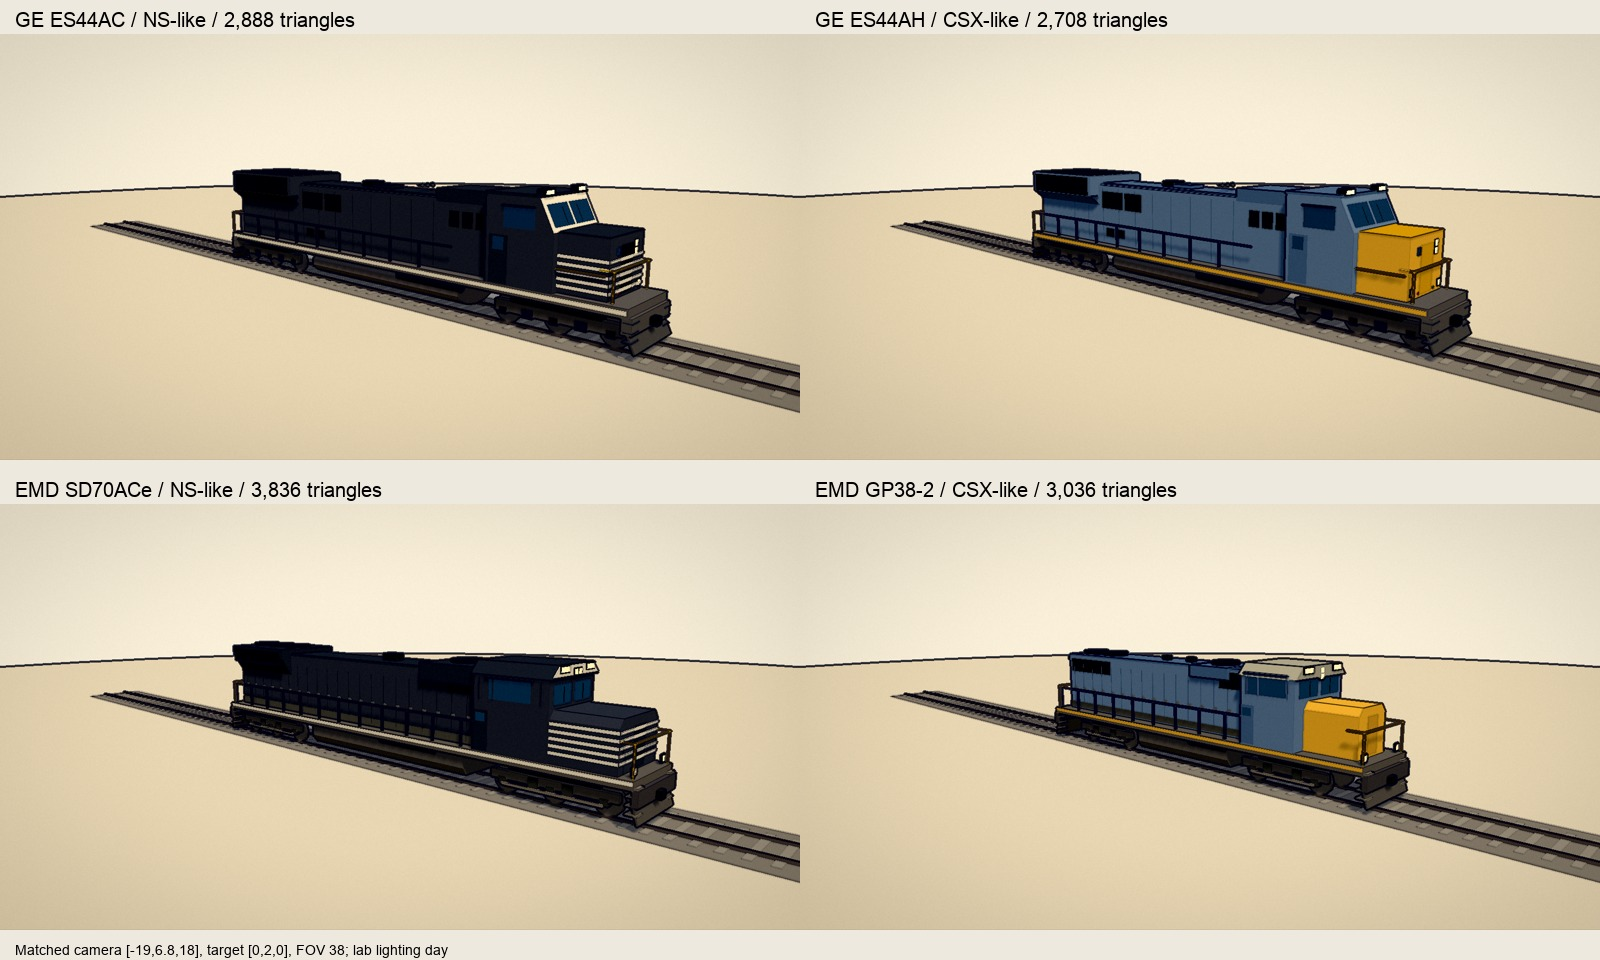
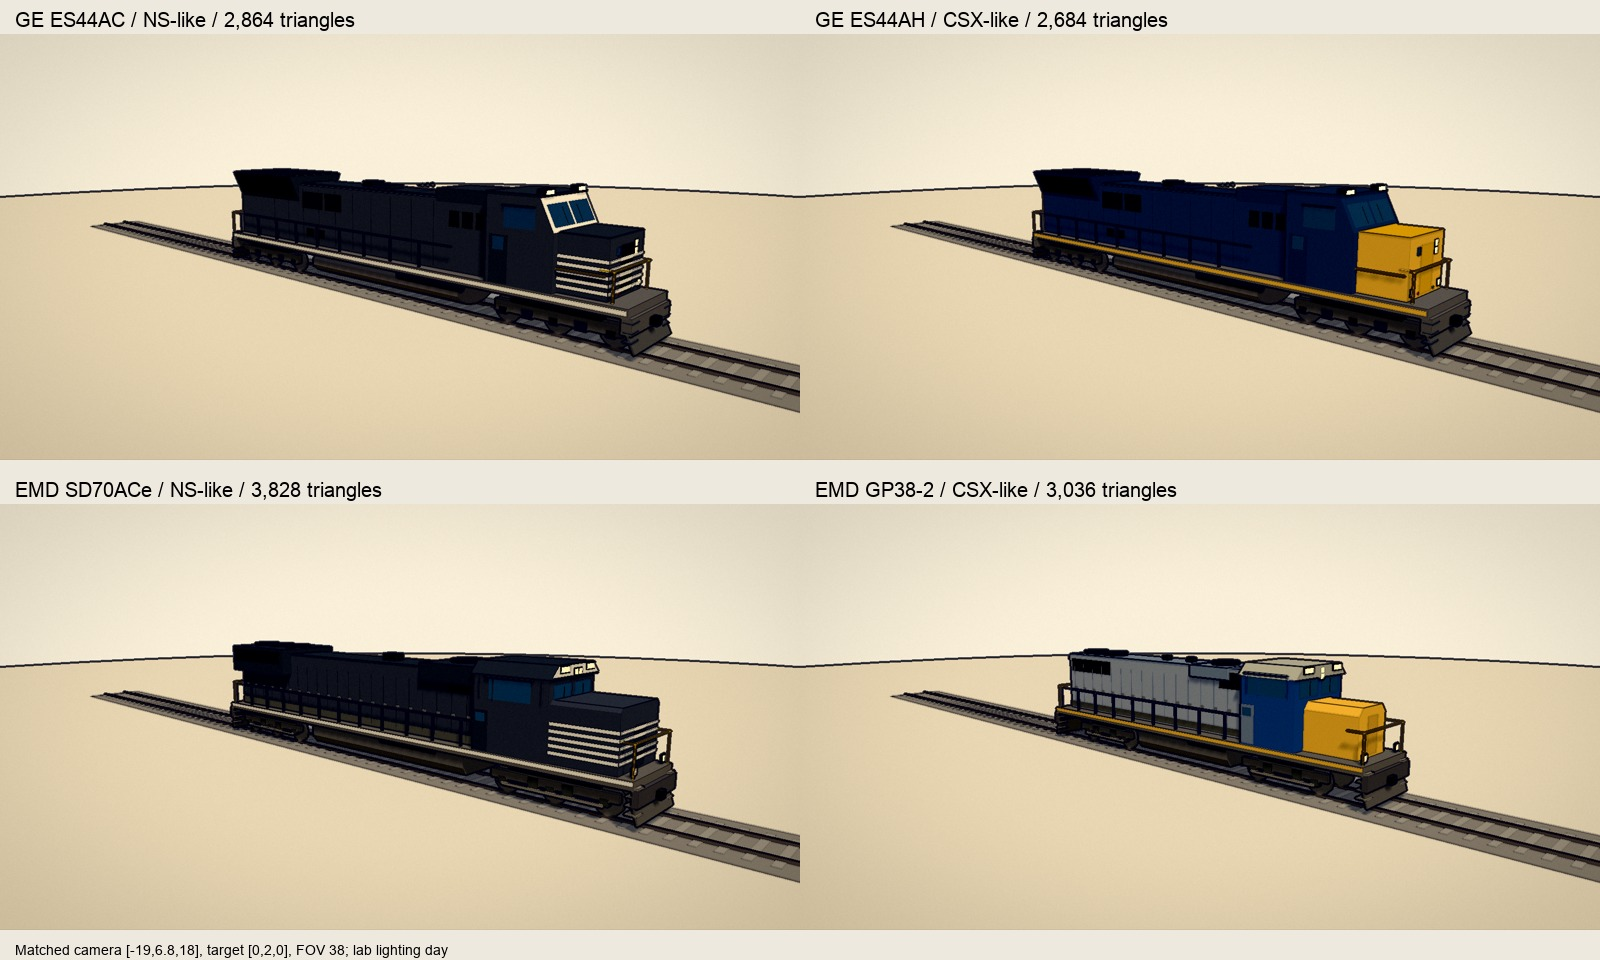
Deepen CSX paint and distinguish GE and EMD silhouettes

diff --git a/web/src/vignette/emd-loco.ts b/web/src/vignette/emd-loco.ts
@@ -30,7 +30,8 @@ function cylinder(b: Builder, radius: number, height: number, x: number, y: numb
 
 export function emdLocomotive(b: Builder, lamps: Builder, model: EmdModel, frontLit: boolean, rearLit: boolean) {
   const small = model === 'gp382', d = EMD_DIMENSIONS[model], end = d.length / 2 - .35;
-  const body = small ? '#76889a' : '#4d4e50', shade = small ? '#647688' : '#3f4143';
+  const body = small ? '#969b9e' : '#4d4e50', shade = small ? '#7c858b' : '#3f4143';
+  const cabPaint = small ? '#344f70' : body;
   const accent = small ? '#ddb15e' : '#e4e1d6';
   const cabFront = small ? 5.9 : 8.0, cabBack = small ? 3.5 : 5.0;
   const nose = end - .6, hoodEnd = -end + .55, roof = small ? 4.46 : 4.65;
@@ -68,20 +69,20 @@ export function emdLocomotive(b: Builder, lamps: Builder, model: EmdModel, front
 
   // The SD's broad clipped-corner safety nose versus the GP's narrow low short hood.
   const nw = small ? .91 : 1.43;
-  section(b, [[-nw,1.52],[nw,1.52],[nw,3.0],[nw-.24,3.28],[-nw+.24,3.28],[-nw,3.0]], cabFront, nose, small ? accent : body);
+  section(b, [[-nw,1.52],[nw,1.52],[nw,small?3.0:3.48],[nw-(small?.24:.12),small?3.28:3.62],[-nw+(small?.24:.12),small?3.28:3.62],[-nw,small?3.0:3.48]], cabFront, nose, small ? accent : body);
   b.box(small ? .65 : .8, 1.35, .025, 0, 2.28, nose + .018, small ? '#c19a52' : shade);
   if (!small) for (const y of [1.9,2.14,2.38,2.62,2.86]) {
     b.box(2.82,.1,.025,0,y,nose+.035,accent);
     for (const s of [-1,1]) b.box(.025,.1,nose-cabFront,s*1.445,y,(nose+cabFront)/2,accent);
   }
   // Full-width cab, with bevelled roof and brow. GP's front is flat, SD's roof has a strong visor.
-  section(b, [[-1.52,1.52],[1.52,1.52],[1.52,roof-.38],[1.13,roof],[-1.13,roof],[-1.52,roof-.38]], cabBack, cabFront, body);
+  section(b, [[-1.52,1.52],[1.52,1.52],[1.52,roof-.38],[1.13,roof],[-1.13,roof],[-1.52,roof-.38]], cabBack, cabFront, cabPaint);
   section(b, [[-1.61,roof-.38],[1.61,roof-.38],[1.17,roof+.08],[-1.17,roof+.08]], cabBack-.08,cabFront+.13,small ? '#aaa99c' : shade);
   if (!small) section(b, [[-1.55,roof-.3],[1.55,roof-.3],[1.17,roof+.04],[-1.17,roof+.04]], cabFront+.13,cabFront+.16,accent);
   for (const s of [-1,1]) {
     b.box(1.12,.67,.035,s*.69,3.75,cabFront+.025,GLASS);
     b.box(.03,.7,1.65,s*1.54,3.78,(cabFront+cabBack)/2,GLASS);
-    for (const z of [cabBack+.3,cabBack+.85,cabFront-.25]) b.box(.05,.72,.045,s*1.56,3.78,z,body);
+    for (const z of [cabBack+.3,cabBack+.85,cabFront-.25]) b.box(.05,.72,.045,s*1.56,3.78,z,cabPaint);
     b.box(.15,.055,1.9,s*1.59,4.2,(cabFront+cabBack)/2,shade);
     b.box(.035,1.45,.6,s*1.54,2.3,cabBack+.34,shade);
     b.box(.035,.3,.38,s*1.56,2.77,cabBack+.34,GLASS);
@@ -98,7 +99,7 @@ export function emdLocomotive(b: Builder, lamps: Builder, model: EmdModel, front
     lamp(s*(small?.92:.87),roof-.07,cabFront+.15,frontLit,.52,.17);
     lamp(s*1.13,1.72,end-.23,frontLit);
   }
-  // Long hood and separate cooling equipment: the SD has a flared rear radiator,
+  // Long hood and separate cooling equipment: the SD has a flat-sided rear radiator,
   // the GP has a narrow hood with two circular roof fans and a dynamic-brake blister.
   const hw=small?.91:1.04, hoodTop=small?4.12:4.2;
   b.box(hw*2,hoodTop-1.52,cabBack-hoodEnd,0,(hoodTop+1.52)/2,(cabBack+hoodEnd)/2,body);
@@ -109,7 +110,7 @@ export function emdLocomotive(b: Builder, lamps: Builder, model: EmdModel, front
     for (const z of [hoodEnd+1.0,hoodEnd+2.5]) cylinder(b,.62,.18,0,4.3,z,GRILLE);
     for (const z of [-.5,-2.0]) b.box(.3,.24,.33,0,4.3,z,'#393a37');
   } else {
-    section(b,[[-1.04,3.3],[1.04,3.3],[1.56,4.08],[1.56,4.53],[-1.56,4.53],[-1.56,4.08]],hoodEnd,hoodEnd+4.2,shade);
+    b.box(3.12,1.23,4.2,0,3.915,hoodEnd+2.1,shade);
     for (const z of [hoodEnd+.8,hoodEnd+2.1,hoodEnd+3.4]) cylinder(b,.65,.12,0,4.6,z,GRILLE);
     // Dynamic-brake box and fan immediately aft of the isolated cab.
     b.box(2.72,.65,2.6,0,4.15,cabBack-1.4,shade);
@@ -127,7 +128,7 @@ export function emdLocomotive(b: Builder, lamps: Builder, model: EmdModel, front
     // Weathering below the doors is a muted band, with separate access panels.
     b.box(.025,.28,cabBack-hoodEnd,s*(hw+.02),1.72,(cabBack+hoodEnd)/2,'#625f55');
     b.box(.045,.045,cabBack-hoodEnd,s*1.46,2.55,(cabBack+hoodEnd)/2,body);
-    for(let z=hoodEnd;z<cabBack;z+=1.35) b.box(.045,1.03,.045,s*1.46,2.04,z,body);
+    for(let z=hoodEnd;z<cabBack;z+=1.35) b.box(.045,1.03,.045,s*1.46,2.04,z,cabPaint);
   }
   for(const y of [3.5,3.73]) lamp(0,y,hoodEnd-.06,rearLit);
   for(const s of [-1,1]) lamp(s*.65,4.0,hoodEnd-.06,rearLit,.45,.14);

diff --git a/web/src/vignette/freight-loco.ts b/web/src/vignette/freight-loco.ts
@@ -40,7 +40,7 @@ export function geLocomotive(b: Builder, lamps: Builder, livery: LocoLivery, lea
   const evolution = family === 'es44';
   const P = evolution && livery === 'ns'
     ? { ...PAINT.ns, body: '#4d4e50', bodyShade: '#3f4143', nose: '#4d4e50', rearPanel: '#4d4e50', sill: '#e6e2d6', endRail: '#d7b354', sideRail: '#4d4e50', cabFace: '#e6e2d6' }
-    : PAINT[livery];
+    : evolution ? { ...PAINT.csx, body: '#343f50', bodyShade: '#293442', sideRail: '#343f50', cabFace: '#343f50' } : PAINT[livery];
   const half = GE_LENGTH / 2;
   const front = half - 0.35; // pilot face
   const rear = -half + 0.35;
@@ -172,11 +172,25 @@ export function geLocomotive(b: Builder, lamps: Builder, livery: LocoLivery, lea
   const rz0 = -10.4,
     rz1 = evolution ? -5.6 : -7.0;
   b.box(hoodW, 2.75, rz1 - rz0, 0, 2.93, (rz0 + rz1) / 2, P.body);
-  b.box(3.1, 0.95, rz1 - rz0, 0, GE_RADIATOR_TOP - 0.47, (rz0 + rz1) / 2, P.body);
+  if (evolution) {
+    // The wing faces lean outward all the way to the roof, rather than a box
+    // hiding their angle. Closed end faces keep the silhouette clear from behind.
+    const profile = [[-1.03,3.5],[1.03,3.5],[1.55,GE_RADIATOR_TOP],[-1.55,GE_RADIATOR_TOP]];
+    for (let i=0;i<4;i++) {
+      const a=profile[i], c=profile[(i+1)%4];
+      b.quad([...a,rz0],[...c,rz0],[...c,rz1],[...a,rz1],P.body);
+    }
+    b.quad([...profile[3],rz0],[...profile[2],rz0],[...profile[1],rz0],[...profile[0],rz0],P.bodyShade);
+    b.quad([...profile[0],rz1],[...profile[1],rz1],[...profile[2],rz1],[...profile[3],rz1],P.bodyShade);
+  } else b.box(3.1, 0.95, rz1 - rz0, 0, GE_RADIATOR_TOP - 0.47, (rz0 + rz1) / 2, P.body);
   b.box(3.0, 0.06, rz1 - rz0 - 0.2, 0, GE_RADIATOR_TOP + 0.01, (rz0 + rz1) / 2, GRILLE); // radiator fans grille
   for (const zc of (evolution ? [-9.5, -7.9, -6.3] : [-9.6, -8.6, -7.6])) b.box(2.5, 0.05, 0.9, 0, GE_RADIATOR_TOP + 0.04, zc, '#1d2125');
   for (const s of [-1, 1]) {
-    b.box(0.03, 0.85, rz1 - rz0 - 0.4, s * 1.565, GE_RADIATOR_TOP - 0.5, (rz0 + rz1) / 2, GRILLE); // wing intakes
+    if (evolution) {
+      const points = [[s*1.12,3.68,rz0+.2],[s*1.51,4.6,rz0+.2],[s*1.51,4.6,rz1-.2],[s*1.12,3.68,rz1-.2]];
+      if (s<0) points.reverse();
+      b.quad(points[0],points[1],points[2],points[3],GRILLE);
+    } else b.box(0.03, 0.85, rz1 - rz0 - 0.4, s * 1.565, GE_RADIATOR_TOP - 0.5, (rz0 + rz1) / 2, GRILLE); // wing intakes
     // Hood side detail: louvred panels behind the cab and door seams along the engine hood.
     for (let i = 0; i < 3; i++) b.box(0.03, 0.62, 0.48, s * (hoodW / 2 + 0.01), 3.55, cabRearZ - 0.55 - i * 0.62, GRILLE);
     for (let z = -7.6; z < 2.8; z += 1.15) b.box(0.02, 2.5, 0.03, s * (hoodW / 2 + 0.01), 2.9, z, P.bodyShade);
@@ -189,10 +203,6 @@ export function geLocomotive(b: Builder, lamps: Builder, livery: LocoLivery, lea
     // GEVO radiator has a longer cooling section, sloping wing undersides and a
     // recessed pair of intake panels ahead of it (3122/8176 reference photos).
     for (const side of [-1, 1]) {
-      const x = side * 1.55, inner = side * 1.03;
-      const points = [[inner, 3.35, rz0], [x, 3.78, rz0], [x, 3.78, rz1], [inner, 3.35, rz1]];
-      if (side < 0) points.reverse();
-      b.quad(points[0], points[1], points[2], points[3], P.bodyShade);
       b.box(.035, .78, 1.45, side * 1.05, 3.62, -4.6, GRILLE);
       b.box(.035, .78, 1.1, side * 1.05, 3.62, -3.15, GRILLE);
     }

diff --git a/docs/freight-variety.md b/docs/freight-variety.md
@@ -10,9 +10,9 @@ work is added.
 
 | Model | Length / truck centres (m) | Distinguishing shape | Triangles |
 | --- | --- | --- | --- |
-| NS-like ES44AC | 22.30 / 16.15 | Extended GEVO radiator wings and recessed intakes, white cab face | 2,888 |
-| CSX-like ES44AH | 22.30 / 16.15 | Same Evolution body, blue-grey hood and yellow nose | 2,708 |
-| NS-like SD70ACe | 22.63 / 15.90 | Broad clipped-corner nose, cab brow lamps, flared radiator with three roof fans | 3,836 |
+| NS-like ES44AC | 22.30 / 16.15 | Extended GEVO radiator wings and recessed intakes, white cab face | 2,864 |
+| CSX-like ES44AH | 22.30 / 16.15 | Same Evolution body, navy hood and yellow nose | 2,684 |
+| NS-like SD70ACe | 22.63 / 15.90 | Broad clipped-corner nose, cab brow lamps, flat-sided radiator with three roof fans | 3,828 |
 | CSX-like GP38-2 | 18.03 / 10.3632 | Narrow short hood, bevelled cab roof, two-axle trucks, two radiator fans | 3,036 |
 
 [Progress Rail's SD70ACe specification](https://www.progressrail.com/en/segments/locomotive/locomotives/freight-locomotives/sd70-a-ce)
@@ -35,7 +35,7 @@ roadside light pools are implied by emissive lenses.
 
 - [NS SD70ACe 1132, Valley Forge, 21 April 2017](https://commons.wikimedia.org/wiki/File:NS_SD70ACe_1132_EB_Valley_Forge_PA.jpg), Dough4872, [CC BY-SA 3.0](https://creativecommons.org/licenses/by-sa/3.0/): front three-quarter, paired brow headlights, ditch lights, roof bevel, safety nose and end rails.
 - [NS SD70ACe at Oostanaula GA, 2 June 2026](https://commons.wikimedia.org/wiki/File:Passing_train,_Oostanaula_GA.jpg), John Phelan, [CC BY 4.0](https://creativecommons.org/licenses/by/4.0/): opposite cab side, sliding side windows, dirty lower body and HTCR running gear.
-- [CSX GP38-2 2772, 17 June 2005](https://commons.wikimedia.org/wiki/File:CSX_GP38-2.jpg), Phil Gengler, [CC BY 2.5](https://creativecommons.org/licenses/by/2.5/): front three-quarter, narrow short hood, cab and two-axle trucks. The model uses a later blue-grey body treatment, not this photo's grey long hood.
+- [CSX GP38-2 2772, 17 June 2005](https://commons.wikimedia.org/wiki/File:CSX_GP38-2.jpg), Phil Gengler, [CC BY 2.5](https://creativecommons.org/licenses/by/2.5/): front three-quarter, narrow short hood, cab and two-axle trucks. The model follows its YN2 blue cab and grey long hood, with a yellow nose.
 - [CSX GP38-2 2641, Valdosta GA, 1 January 2014](https://commons.wikimedia.org/wiki/File:CSX_2641_in_Valdosta_010114.JPG), Michael Rivera, [CC BY-SA 3.0](https://creativecommons.org/licenses/by-sa/3.0/): opposite side elevation, rear pair of cooling fans, dynamic-brake blister, fuel tank and light roof.
 - [CSX ES44AH 3122, Langhorne, 13 July 2019](https://commons.wikimedia.org/wiki/File:CSX_ES44AH_3122_NB_Langhorne_PA.jpeg), Dough4872, [CC BY-SA 4.0](https://creativecommons.org/licenses/by-sa/4.0/): cab rake, stacked nose lamps, extended rear radiator and side intakes.
 - [NS ES44AC 8176, Mechanicsville GA, 8 February 2026](https://commons.wikimedia.org/wiki/File:Passing_train,_Mechanicsville_GA.jpg), John Phelan, [CC BY 4.0](https://creativecommons.org/licenses/by/4.0/): wider side view of the GEVO hood, pale cab face, white sill and nose stripes, yellow end rails.
@@ -77,3 +77,5 @@ A concrete 11 m / 12 m track test fails when that fix is reverted. The four new
 unit keys still do not enter City consists in this PR.
 
 Final validation: 20 Rust, 11 pipeline, 940 web tests (one existing skip), and five worker tests passed; build and type check passed. Perf Low: 2,384,006 triangles / 543 calls; High: 13,781,355 / 1,177, both below ceilings. Claude's second and final review found no remaining findings. All four models were checked in the browser with matched day/night screenshots. Web rebuild only; no data rebuild or worker change.
+
+Sam’s colour revision: ES44AH uses navy `#343f50` with yellow nose and sill; GP38-2 uses stronger blue `#344f70` on its cab against grey `#969b9e` on its long hood. GE cooling faces now slope outward to the roof; the SD uses a flat-sided radiator and a taller 3.62 m nose with smaller corner bevels. These silhouette dimensions are estimated from the linked references. Day, night and reference sheets were reshot with the same camera.

diff --git a/docs/build-log.md b/docs/build-log.md
@@ -2886,3 +2886,7 @@ the rings fixed that without moving their geometry. The low tier stays within bu
 The lab now has the Evolution-series GE road engine in NS-like and CSX-like paint, an NS-like SD70ACe, and a shorter CSX-like GP38-2. The SD has brow headlights, a broad clipped-corner nose and three radiator fans; the GP has a narrow short hood, four axles and two rear fans. The surprise was a published GP38-2 truck-spacing disagreement: a secondary sheet said 43 ft, while GATX says 34 ft between bolster centres. The model uses GATX. All four are merged vertex-coloured geometry, at 2,708–3,836 triangles each. The new NS inputs needed lifting through the grade so black panels still read; the approved CM44ACs stay unchanged. Lab-only selection for now; City consists are the next freight integration step after the car library. Web rebuild only. [Matched daylight](log/freight/variety/day.jpg) · [Night](log/freight/variety/night.jpg) · [Photo comparison](log/freight/variety/references.jpg) · [Sources and estimates](freight-variety.md).
 
 Cross-review found an unexpected coupling: City's terrain-opening cutoff used the shortest truck spacing in the whole library, so a lab-only switcher lowered it. Computing the cutoff from the actual City consist keeps the 12 m threshold. An 11 m test sliver catches the regression with that one-line fix reverted.
+
+### 2026-11-23 — Navy paint and distinct cooling silhouettes
+
+Sam found the CSX studies too pale. The ES44AH now wears navy with its yellow nose and frame stripe, while the GP38-2 pairs a stronger blue cab with the grey YN2 hood. The GE radiator was still a box despite its underside detail: replacing its outer faces with angled wings makes the shape read from the matched lab camera. The SD instead has a flat-sided radiator and taller, squarer nose. The revised models use 2,684–3,828 triangles. [Day lineup](log/freight/variety/day.jpg) · [Reference comparison](log/freight/variety/references.jpg). Web rebuild only.
